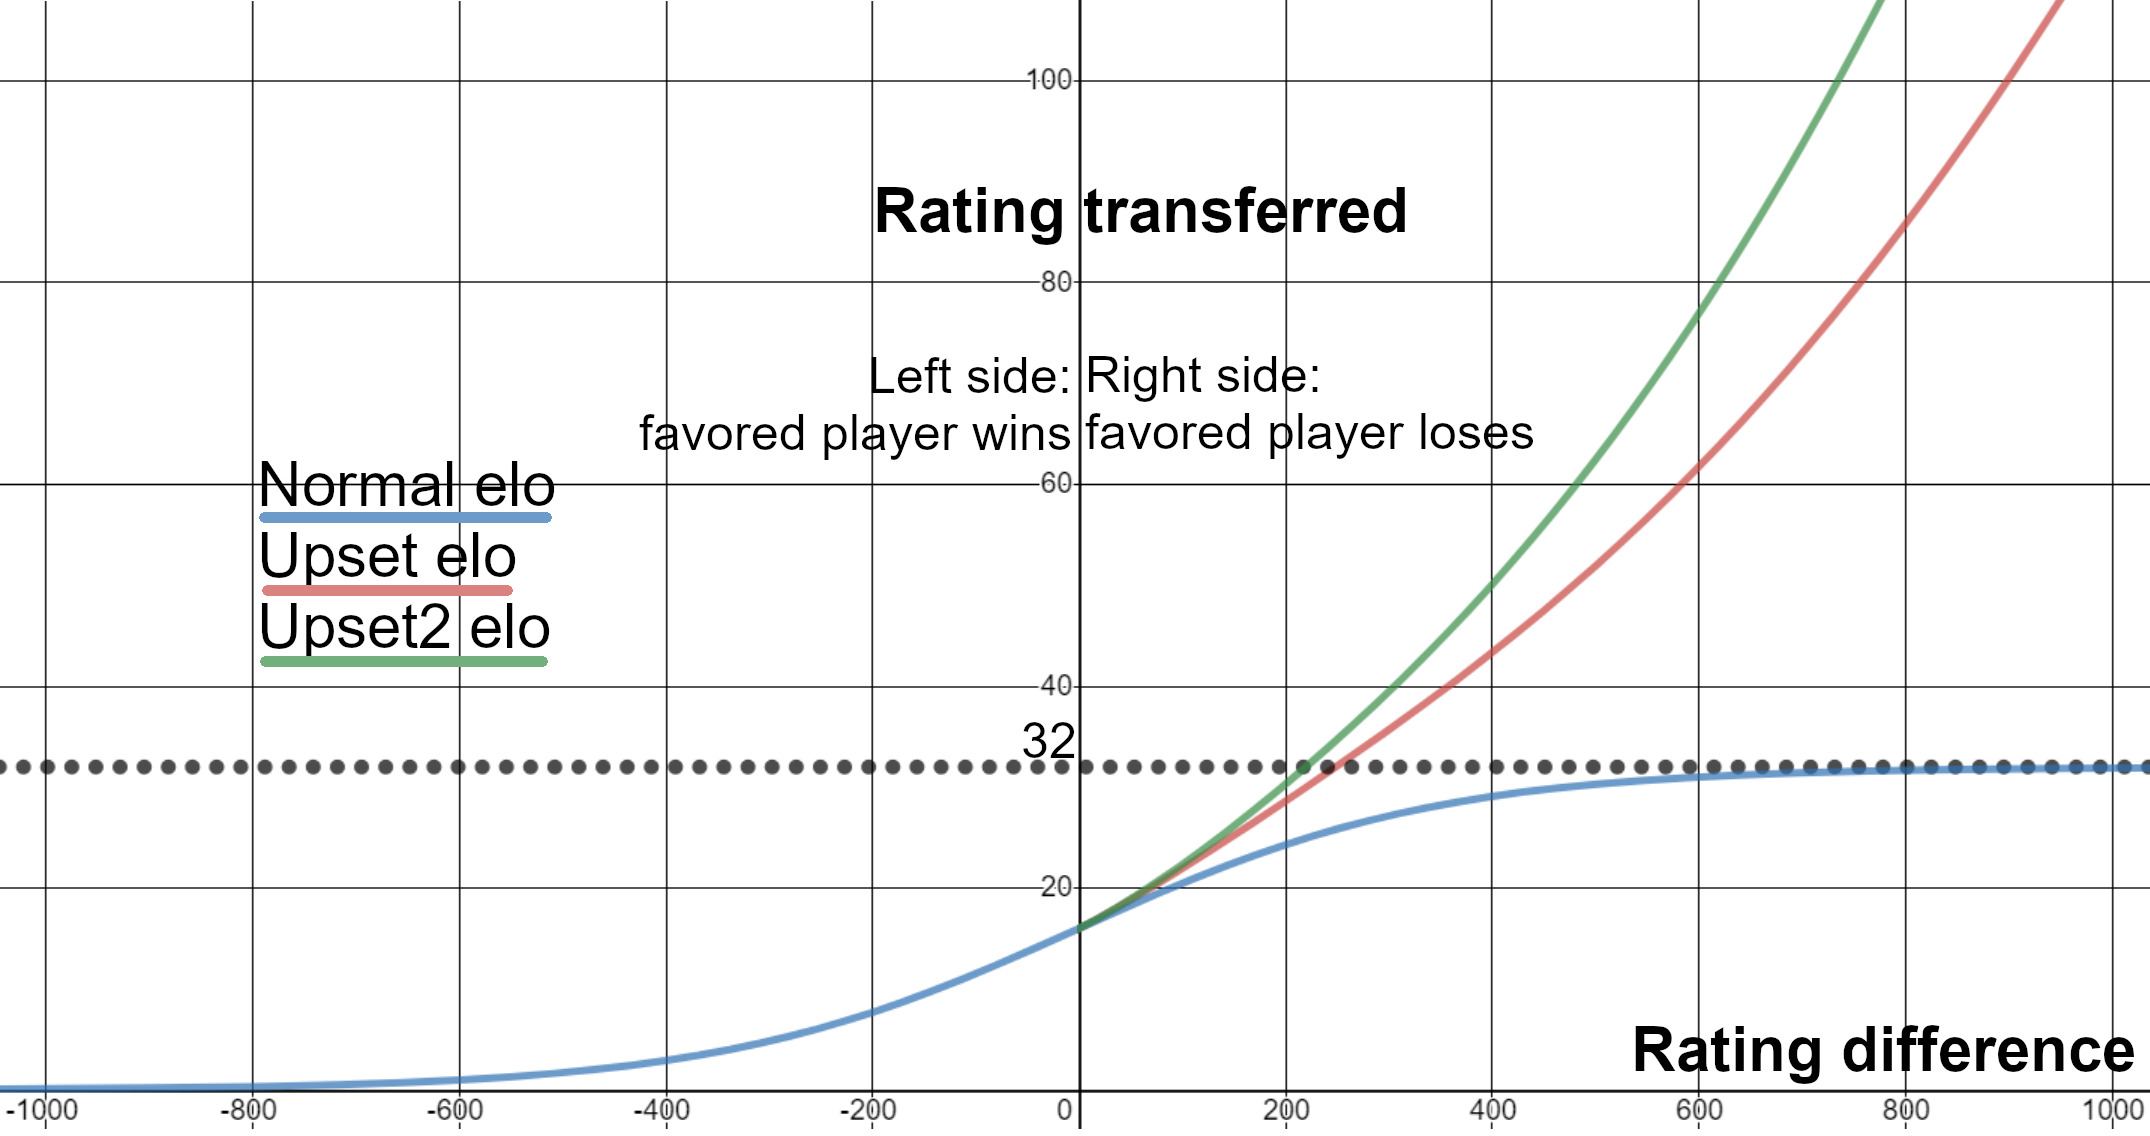
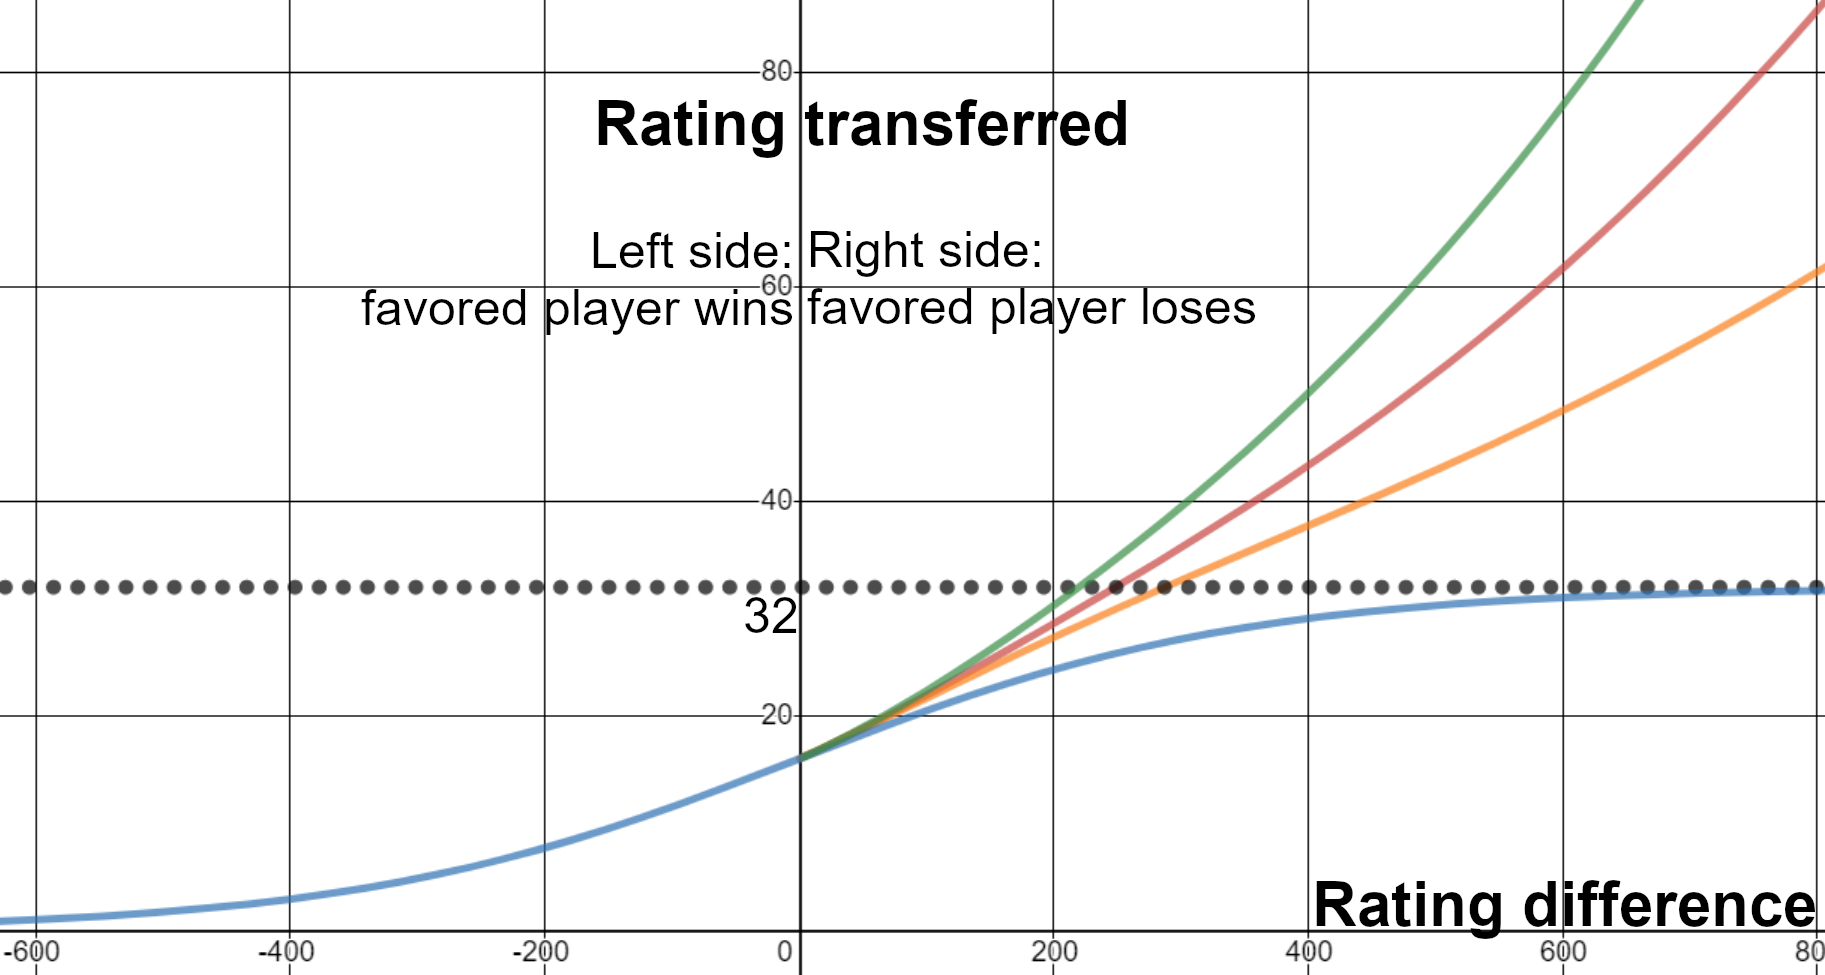
Changes to /about

diff --git a/src/views/About.vue b/src/views/About.vue
@@ -8,7 +8,7 @@
 
     <!-- RATING SIMPLE -->
     <h3 style="margin-top: 10px;">Rating</h3>
-    <p style="margin-top: 2px;">The rating system being used is standard <a href="https://en.wikipedia.org/wiki/Elo_rating_system">ELO</a>. Very simple to implement, but not very sophisticated.</p>
+    <p style="margin-top: 2px;">The rating system being used is <a href="https://en.wikipedia.org/wiki/Elo_rating_system">ELO</a>. Very simple to implement, but not very sophisticated.</p>
     <p>The basics of ELO are:</p>
     <ul>
       <li>Each player starts at a predefined rating (1200)</li>
@@ -17,11 +17,11 @@
       <li>How much rating is transferred is determined by how likely the result is. If the winning player is expected to win, less rating is transferred. If the winning player is expected to lose, more rating is transferred.</li>
     </ul>
 
-    <p>Min/max rating transferred is <span class="consolas-text">probability * k</span>. Currently, this constant <span class="consolas-text">k</span> is set to 32.
-       This means that no matter how big the rating difference is, <u>no more than 32 points can ever be transferred</u>. This can change with different variations of ELO, see further below.</p>
+    <p>In standard elo, min/max rating transferred is <span class="consolas-text">probability * k</span>. Currently, this constant <span class="consolas-text">k</span> is set to 32.
+       This means that no matter how big the rating difference is, no more than 32 points can ever be transferred. <u>However</u>, Dips-Pong uses a modified version of Elo that increases the amount of points transferred when the winning player has the lower rating.</p>
     <p>Further below are some examples of ratings and points transferred.</p>
 
-    <p><i>Changes to the constant k, or the imeplementation of a new and better rating system can be considered. All that needs to be done afterwards is to rerun all the games through the new rating calculations.</i></p>
+    <p><i>Imeplementation of a new and better rating system can be considered. All that needs to be done afterwards is to rerun all the games through the new rating calculations.</i></p>
 
     <p><i>If players at some point travel to other offices/leagues, I might implement a feature where players can essentially steal points from the other league by winning against their players (and keep a record of which office has stolen the most points from which). This would mean that the average rating in each league would differ from 1200.</i></p>
 
@@ -50,7 +50,7 @@
 
     <div class="row-flex" v-if="testedSystemRatings.length > 0" style="margin-top: 10px;">
       <div class="col-flex">
-        <h2 style="margin-bottom: -10px;">Regular ELO</h2>
+        <h2 style="margin-bottom: -10px;">Current</h2>
         <PlayerList :hideInactivePlayers="true" :hideHeader="true"/>
       </div>
       <div class="col-flex" style="margin-left: 30px;">
@@ -62,6 +62,9 @@
     <p>
       Below are the different rating systems proposed. So far, they all have the same outcome if the player with higher rating wins.
       One of the expressed concerns about standard ELO is that the points transferred are capped at 32, even for big upsets. This is what inspired the alternative systems.
+    </p>
+    <p>
+      As of October 10 2019, all rating changes are calculated using Upset elo. Ratings for all previous games were also recalculated using Upset elo.
     </p>
     <table v-if="ratingSamples">
       <thead>
